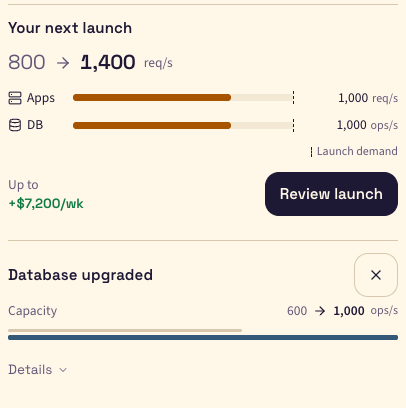
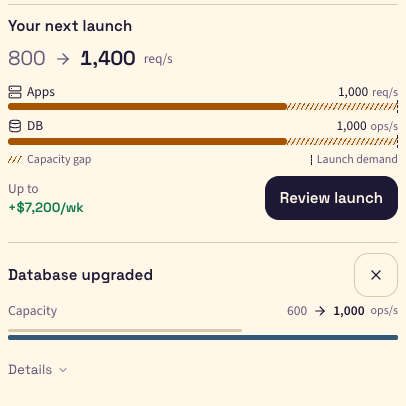
feat(ui): clarify launch capacity and preserve review access

diff --git a/frontend/src/components/LaunchOpportunity.tsx b/frontend/src/components/LaunchOpportunity.tsx
@@ -1,4 +1,5 @@
-import { useState } from "react";
+import { useEffect, useRef, useState } from "react";
+import { createPortal } from "react-dom";
 import { scalingLaunchBlocker } from "@/sim/scalingLaunch";
 import { APPLICATION_SCALING as P } from "@/sim/scenarios/applicationScaling";
 import { OPENING_DB as Q } from "@/sim/scenarios/openingDatabaseIncident";
@@ -9,8 +10,16 @@ import { Icon } from "./icons";
 import "./LaunchOpportunity.css";
 
 export function LaunchOpportunity() {
-  const { game, act, setRunning } = useGame();
+  const game = useGame(s => s.game);
+  const act = useGame(s => s.act);
+  const setRunning = useGame(s => s.setRunning);
+  const running = useGame(s => s.running);
   const [review, setReview] = useState(false);
+  const [focusCountdown, setFocusCountdown] = useState(false);
+  const countdown = useRef<HTMLDivElement>(null);
+  useEffect(() => {
+    if (focusCountdown) countdown.current?.focus();
+  }, [focusCountdown]);
   const c = game.campaign!, stage = c.scaling;
   if (stage?.version !== 2 || stage.consumed) return null;
   const blocker = scalingLaunchBlocker(game);
@@ -19,31 +28,46 @@ export function LaunchOpportunity() {
   const committed = stage.dueStep !== null;
   const remaining = committed ? Math.max(0, stage.dueStep! - c.step) : P.observationSteps;
   const scale = Math.max(P.traffic, routed, c.dbCapacity, 1);
+  const hasGap = routed < P.traffic || c.dbCapacity < P.traffic;
   return <section className="launch-opportunity" aria-label="Growth launch opportunity">
     <h3>{committed ? "Campaign launched" : "Your next launch"}</h3>
     <div className="launch-traffic" role="img" aria-label={`Incoming traffic: ${num(c.incomingRate)} to ${num(P.traffic)} requests per second`}>
       <span>{num(c.incomingRate)}</span><Icon name="next" size={18}/><strong>{num(P.traffic)}</strong><small>req/s</small>
     </div>
-    {committed ? <div className="launch-countdown" role="progressbar" aria-label="Launch countdown" aria-valuemin={0} aria-valuemax={P.observationSteps} aria-valuenow={P.observationSteps - remaining} aria-valuetext={`Launch in ${remaining} game seconds. Run to advance.`}>
-      <span className="launch-countdown-steps" aria-hidden="true">{Array.from({ length: P.observationSteps }, (_, i) => <i key={i} data-elapsed={i < P.observationSteps - remaining}/>)}</span><span>{remaining}s · Run to advance</span>
+    {committed ? <div ref={countdown} tabIndex={-1} className="launch-countdown" role="progressbar" aria-label="Launch countdown" aria-valuemin={0} aria-valuemax={P.observationSteps} aria-valuenow={P.observationSteps - remaining} aria-valuetext={`Launch in ${remaining} game seconds. ${running ? "Running." : "Paused. Run to advance."}`}>
+      <span className="launch-countdown-steps" aria-hidden="true">{Array.from({ length: P.observationSteps }, (_, i) => <i key={i} data-elapsed={i < P.observationSteps - remaining}/>)}</span><span><Icon name={running ? "play" : "pause"} size={14}/>{running ? `${remaining}s to launch` : `Paused · ${remaining}s left`}</span>
     </div> : <>
-      <div className="launch-capacities" role="img" aria-label={`Launch demand ${num(P.traffic)} per second. Routed apps ${num(routed)} requests per second. Database ${num(c.dbCapacity)} operations per second.`}>
+      <div className="launch-capacities" role="img" aria-label={`Launch demand ${num(P.traffic)} per second. Routed apps ${num(routed)} requests per second${routed < P.traffic ? `, capacity gap ${num(P.traffic - routed)}` : ""}. Database ${num(c.dbCapacity)} operations per second${c.dbCapacity < P.traffic ? `, capacity gap ${num(P.traffic - c.dbCapacity)}` : ""}.`}>
         {[{ label: "Apps", icon: "server", value: routed, unit: "req/s" }, { label: "DB", icon: "database", value: c.dbCapacity, unit: "ops/s" }].map(row => <div className="launch-capacity" key={row.label}>
-          <span><Icon name={row.icon === "server" ? "server" : "database"} size={14}/>{row.label}</span><span className="launch-capacity-track" data-short={row.value < P.traffic}><span style={{ width: `${row.value / scale * 100}%` }}/><i style={{ left: `${P.traffic / scale * 100}%` }}/></span><span>{num(row.value)}<small>{row.unit}</small></span>
+          <span><Icon name={row.icon === "server" ? "server" : "database"} size={14}/>{row.label}</span><span className="launch-capacity-value">{num(row.value)}<small>{row.unit}</small></span>
+          <span className="launch-capacity-track" data-short={row.value < P.traffic}>
+            <span style={{ width: `${row.value / scale * 100}%` }}/>
+            {row.value < P.traffic && <span className="launch-capacity-gap" style={{ left: `${row.value / scale * 100}%`, width: `${(P.traffic - row.value) / scale * 100}%` }}/>}
+            <i style={{ left: `${P.traffic / scale * 100}%` }}/>
+          </span>
         </div>)}
-        <span className="launch-capacity-key"><i/>Launch demand</span>
+        <div className="launch-capacity-key" aria-hidden="true">{hasGap && <span><i className="launch-gap-key"/>Capacity gap</span>}<span><i className="launch-target-key"/>Launch demand</span></div>
       </div>
       <div className="launch-offer"><span>Up to <strong>+{money(extraRevenue)}/wk</strong></span><button type="button" className="btn btn-primary" data-guidance="review-launch" disabled={!!blocker} onClick={() => { setRunning(false); setReview(true); }}>Review launch</button></div>
       {blocker && <p>{blocker}</p>}
     </>}
-    {review && !committed && <Modal title="Launch growth campaign?" onClose={() => setReview(false)}>
-      <p>Traffic will rise to <strong>{num(P.traffic)} req/s</strong> after {P.observationSteps} game seconds. The launch cannot be cancelled after confirmation.</p>
-      <p>Up to {money(extraRevenue)} more revenue/week if every additional request succeeds, paid at settlement. Waiting keeps current traffic, revenue and running costs going.</p>
-      <dl className="launch-readings"><div><dt>Routed app capacity</dt><dd>{num(routed)} req/s</dd></div><div><dt>Database capacity</dt><dd>{num(c.dbCapacity)} ops/s</dd></div><div><dt>Deployments unfinished</dt><dd>{c.pending.length}</dd></div></dl>
-      <p>Installed servers only help when routed. Balanced routing splits traffic equally; total capacity alone does not guarantee every server can cope.</p>
-      {(routed < P.traffic || c.dbCapacity < P.traffic || c.limit !== null || c.pending.length > 0) && <p className="text-warn">Current capacity, traffic limits or unfinished deployments may leave demand unserved. Launching still uses the normal incident and bankruptcy rules.</p>}
-      {blocker && <p role="status">{blocker}</p>}
-      <div className="modal-actions"><button type="button" className="btn" onClick={() => setReview(false)}>Keep preparing</button><button type="button" className="btn btn-primary" disabled={!!blocker} onClick={() => { if (act({ type: "launch_scaling" })) setReview(false); }}>Launch campaign</button></div>
-    </Modal>}
+    {review && !committed && createPortal(<Modal title="Launch growth?" className="launch-review" onClose={() => setReview(false)}>
+      <div className="launch-review-content" role="region" aria-label="Launch details" tabIndex={0} onKeyDown={e => {
+        if (e.target !== e.currentTarget || e.altKey || e.ctrlKey || e.metaKey || e.shiftKey) return;
+        if (e.key === "Home" || e.key === "End") {
+          // Match purchase details: keep endpoint navigation inside the focused reading region.
+          e.preventDefault();
+          e.currentTarget.scrollTop = e.key === "End" ? e.currentTarget.scrollHeight : 0;
+        }
+      }}>
+        <p>Traffic will rise to <strong>{num(P.traffic)} req/s</strong> after {P.observationSteps} game seconds. The launch cannot be cancelled after confirmation.</p>
+        <p>Up to {money(extraRevenue)} more revenue/week if every additional request succeeds, paid at settlement. Waiting keeps current traffic, revenue and running costs going.</p>
+        <dl className="launch-readings"><div><dt>Routed app capacity</dt><dd>{num(routed)} req/s</dd></div><div><dt>Database capacity</dt><dd>{num(c.dbCapacity)} ops/s</dd></div><div><dt>Deployments unfinished</dt><dd>{c.pending.length}</dd></div></dl>
+        <p>Installed servers only help when routed. Balanced routing splits traffic equally; total capacity alone does not guarantee every server can cope.</p>
+        {(routed < P.traffic || c.dbCapacity < P.traffic || c.limit !== null || c.pending.length > 0) && <p className="text-warn">Current capacity, traffic limits or unfinished deployments may leave demand unserved. Launching still uses the normal incident and bankruptcy rules.</p>}
+        {blocker && <p role="status">{blocker}</p>}
+      </div>
+      <div className="modal-actions"><button type="button" className="btn" data-autofocus onClick={() => setReview(false)}>Keep preparing</button><button type="button" className="btn btn-primary" disabled={!!blocker} onClick={() => { if (act({ type: "launch_scaling" })) { setReview(false); setFocusCountdown(true); } }}>Launch campaign</button></div>
+    </Modal>, document.body)}
   </section>;
 }

diff --git a/frontend/e2e/playerLaunch.spec.ts b/frontend/e2e/playerLaunch.spec.ts
@@ -26,16 +26,43 @@ for (const phone of [false, true]) {
         await page.screenshot({ path: "test-results/graphical-panel.png", clip: { x: top.x - 8, y: top.y - 4, width: top.width + 16, height: bottom.y + bottom.height - top.y + 8 } });
       }
       await opportunity.getByRole("button", { name: "Review launch" }).click();
-      const review = page.getByRole("dialog", { name: "Launch growth campaign?", exact: true });
+      const review = page.getByRole("dialog", { name: "Launch growth?", exact: true });
       await expect(review).toContainText("1,000 req/s");
       await expect(review).toContainText("cannot be cancelled");
+      const keepPreparing = review.getByRole("button", { name: "Keep preparing" });
+      await expect(keepPreparing).toBeFocused();
+      if (!phone) {
+        // Keyboard can inspect, leave and return without recording a launch.
+        await keepPreparing.press("Shift+Tab");
+        await expect(review.getByRole("region", { name: "Launch details" })).toBeFocused();
+        await page.keyboard.press("Shift+Tab");
+        await expect(review.getByRole("button", { name: "Close", exact: true })).toBeFocused();
+        await page.keyboard.press("Shift+Tab");
+        await expect(review.getByRole("button", { name: "Launch campaign", exact: true })).toBeFocused();
+        await page.keyboard.press("Tab");
+        await expect(review.getByRole("button", { name: "Close", exact: true })).toBeFocused();
+        await page.keyboard.press("Escape");
+        await expect(opportunity.getByRole("button", { name: "Review launch" })).toBeFocused();
+        expect((await savedGame(page)).campaign!.scaling!.dueStep).toBeNull();
+        await page.keyboard.press("Enter");
+        await expect(keepPreparing).toBeFocused();
+      }
       await page.screenshot({ path: `test-results/player-launch-${phone ? "phone" : "desktop"}.png` });
-      await review.getByRole("button", { name: "Keep preparing" }).click();
+      if (phone) await keepPreparing.click();
+      else await keepPreparing.press("Enter");
+      await expect(opportunity.getByRole("button", { name: "Review launch" })).toBeFocused();
       expect((await savedGame(page)).campaign!.scaling!.dueStep).toBeNull();
       await advanceCampaignStep(page, { seconds: 5, resumeClock: false });
       expect((await savedGame(page)).campaign!.incomingRate).toBe(800);
       await opportunity.getByRole("button", { name: "Review launch" }).click();
-      await review.getByRole("button", { name: "Launch campaign", exact: true }).click();
+      if (phone) await review.getByRole("button", { name: "Launch campaign", exact: true }).click();
+      else {
+        await keepPreparing.press("Tab");
+        await page.keyboard.press("Enter");
+      }
+      await expect(opportunity.getByRole("progressbar", { name: "Launch countdown" })).toBeFocused();
+      await expect(opportunity).toContainText("Paused · 3s left");
+      if (!phone) await opportunity.screenshot({ path: "test-results/graphical-countdown.png" });
       const deadline = (await savedGame(page)).campaign!.scaling!.dueStep;
       await advanceCampaignStep(page, { seconds: 2, resumeClock: false });
       // The simulation is paused; let the phone shell finish its lazy loading on reload.
@@ -70,4 +97,42 @@ test("explains an unrouted purchase as soon as the server activates", async ({ p
   await expect(feedback.locator("details")).toHaveJSProperty("open", true);
   await expect(feedback.getByText("800 → 800 /s", { exact: true })).toBeVisible();
   await page.screenshot({ path: "test-results/player-change-feedback.png" });
+});
+
+test.describe("large text phone", () => {
+  test.use({ edition: "phone", viewport: { width: 320, height: 568 }, isMobile: true, hasTouch: true });
+  test("keeps the launch decision reachable with enlarged text on a short phone", async ({ page, withoutRoom }) => {
+    await withoutRoom();
+    await seedSave(page, launchCompany());
+    await page.goto("/");
+    await page.getByRole("button", { name: "Continue company", exact: true }).click();
+    const handle = page.locator('.phone-sheet-handle[aria-expanded="false"]');
+    if (await handle.isVisible()) await handle.click();
+    await page.addStyleTag({ content: "html { font-size: 200%; }" });
+    const opportunity = page.getByRole("region", { name: "Growth launch opportunity" });
+    await opportunity.getByRole("button", { name: "Review launch" }).click();
+    const review = page.getByRole("dialog", { name: "Launch growth?", exact: true });
+    const keepPreparing = review.getByRole("button", { name: "Keep preparing" });
+    const launch = review.getByRole("button", { name: "Launch campaign", exact: true });
+    await expect(keepPreparing).toBeFocused();
+    await expectUncovered(page, keepPreparing);
+    await expectUncovered(page, launch);
+    expect(await review.evaluate(node => node.scrollWidth <= node.clientWidth)).toBe(true);
+    expect(await opportunity.evaluate(node => node.scrollWidth <= node.clientWidth)).toBe(true);
+    const explanation = review.getByRole("region", { name: "Launch details" });
+    expect(await explanation.evaluate(node => node.scrollHeight > node.clientHeight)).toBe(true);
+    await keepPreparing.press("Shift+Tab");
+    await expect(explanation).toBeFocused();
+    await explanation.press("End");
+    await expect.poll(() => explanation.evaluate(node => node.scrollTop)).toBeGreaterThan(0);
+    await explanation.press("Home");
+    await expect.poll(() => explanation.evaluate(node => node.scrollTop)).toBe(0);
+    await explanation.press("Tab");
+    await expect(keepPreparing).toBeFocused();
+    await expectUncovered(page, keepPreparing);
+    await expectUncovered(page, launch);
+    await page.screenshot({ path: "test-results/graphical-large-text-review.png" });
+    await keepPreparing.press("Enter");
+    expect((await savedGame(page)).campaign!.scaling!.dueStep).toBeNull();
+  });
 });

diff --git a/frontend/src/components/LaunchOpportunity.css b/frontend/src/components/LaunchOpportunity.css
@@ -1,5 +1,5 @@
 .launch-opportunity, .change-feedback {
-  padding-block: 12px;
+  padding-block: 10px;
   border-top: 1px solid var(--control-edge);
 }
 .launch-opportunity h3, .change-feedback h3 { margin: 0; font-size: var(--text-md); }
@@ -10,25 +10,32 @@
 .change-feedback-heading { display: flex; align-items: center; justify-content: space-between; gap: 8px; }
 .change-feedback-heading .icon-btn { flex: none; }
 
-.launch-traffic { display: flex; align-items: center; gap: 8px; margin: 10px 0; font-family: var(--font-num); font-size: var(--text-xl); font-variant-numeric: tabular-nums; }
+.launch-traffic { display: flex; align-items: center; gap: 8px; margin: 8px 0; font-family: var(--font-num); font-size: var(--text-xl); font-variant-numeric: tabular-nums; }
 .launch-traffic > span, .launch-traffic > .icon { color: var(--text-soft); }
 .launch-traffic small { font-family: var(--font-body); font-size: var(--text-sm); color: var(--text-soft); }
-.launch-capacities { display: grid; gap: 8px; margin-bottom: 12px; }
-.launch-capacity { display: grid; grid-template-columns: 55px minmax(40px, 1fr) auto; gap: 10px; align-items: center; font-size: var(--text-sm); }
+.launch-capacities { display: grid; gap: 6px; margin-bottom: 8px; }
+.launch-capacity { display: grid; grid-template-columns: minmax(0, 1fr) auto; gap: 2px 10px; align-items: center; font-size: var(--text-sm); }
 .launch-capacity > span:first-child { display: flex; align-items: center; gap: 5px; }
-.launch-capacity > span:last-child { display: flex; align-items: baseline; gap: 4px; font-variant-numeric: tabular-nums; min-width: 94px; justify-content: end; }
+.launch-capacity-value { display: flex; flex-wrap: wrap; align-items: baseline; gap: 4px; font-variant-numeric: tabular-nums; justify-content: end; }
 .launch-capacity small { color: var(--text-soft); font-size: var(--text-xs); }
 .launch-capacity-track, .change-cache-track { display: block; position: relative; height: 7px; border-radius: 3px; background: var(--control-inset); }
 .launch-capacity-track > span, .change-cache-track > span { display: block; height: 100%; border-radius: inherit; background: var(--tile-blue-ink); }
-.launch-capacity-track[data-short="true"] > span { background: var(--warn-ink); }
+.launch-capacity-track[data-short="true"] > span:first-child { background: var(--warn-ink); }
 .launch-capacity-track > i { position: absolute; top: -3px; bottom: -3px; border-left: 1px dashed var(--ink); transform: translateX(-1px); }
-.launch-capacity-key { display: flex; justify-content: end; align-items: center; gap: 5px; font-size: var(--text-xs); color: var(--text-soft); }
-.launch-capacity-key > i { height: 10px; border-left: 1px dashed var(--ink); }
+.launch-capacity-track { grid-column: 1 / -1; }
+.launch-capacity-track > .launch-capacity-gap, .launch-gap-key { background: repeating-linear-gradient(120deg, transparent 0 3px, var(--warn-ink) 3px 4px); }
+.launch-capacity-track > .launch-capacity-gap { position: absolute; top: 0; border-radius: 0; }
+.launch-capacity-key { display: flex; justify-content: space-between; flex-wrap: wrap; gap: 4px 12px; font-size: var(--text-xs); color: var(--text-soft); }
+.launch-capacity-key > span { display: flex; align-items: center; gap: 5px; }
+.launch-gap-key { width: 14px; height: 7px; }
+.launch-target-key { height: 10px; border-left: 1px dashed var(--ink); }
+.launch-capacity-key > span:last-child { margin-left: auto; }
 .launch-offer { display: flex; align-items: center; justify-content: space-between; flex-wrap: wrap; gap: 8px; }
 .launch-offer > span { font-size: var(--text-sm); color: var(--text-soft); }
 .launch-offer strong { display: block; color: var(--ok-ink); font-family: var(--font-num); }
 .launch-countdown { display: flex; align-items: center; gap: 10px; font-size: var(--text-sm); color: var(--text-soft); }
-.launch-countdown-steps { display: flex; gap: 4px; }
+.launch-countdown > span:last-child { display: flex; align-items: center; gap: 5px; }
+.launch-countdown-steps { display: flex; flex: none; gap: 4px; }
 .launch-countdown-steps > i { width: 14px; height: 5px; border-radius: 2px; background: var(--control-edge); }
 .launch-countdown-steps > i[data-elapsed="true"] { background: var(--tile-blue-ink); }
 .change-feedback-heading .icon-btn { width: 44px; height: 44px; }
@@ -60,3 +67,16 @@
 .change-admission-track > span:last-child { background: var(--warn-ink); }
 
 .launch-opportunity { width: 100%; }
+
+/* Keep the decision visible while the explanation scrolls on short or enlarged-text screens. */
+.modal-backdrop:has(> .launch-review) { padding: max(18px, env(safe-area-inset-top)) max(18px, env(safe-area-inset-right)) max(18px, env(safe-area-inset-bottom)) max(18px, env(safe-area-inset-left)); }
+.launch-review { max-height: calc(100dvh - max(18px, env(safe-area-inset-top)) - max(18px, env(safe-area-inset-bottom))); }
+.launch-review > .modal-head { flex: none; }
+.launch-review > .modal-body { display: flex; flex-direction: column; min-height: 0; padding: 0; overflow: hidden; }
+.launch-review p { margin-block: 8px; }
+.launch-review-content { min-height: 0; overflow-y: auto; padding: 14px 18px; }
+.launch-review .modal-actions { display: flex; flex-wrap: wrap; flex: none; gap: 8px; padding: 12px 18px; border-top: 1px solid var(--control-edge); }
+.launch-review .modal-actions > .btn { flex: 1 1 10rem; min-height: 44px; }
+.launch-review .modal-head h2 { overflow-wrap: anywhere; }
+.launch-opportunity, .change-feedback { min-width: 0; }
+.launch-opportunity .launch-traffic { flex-wrap: wrap; }

diff --git a/frontend/e2e/campaignCompletion.spec.ts b/frontend/e2e/campaignCompletion.spec.ts
@@ -65,7 +65,7 @@ test("campaign: a fresh guest completes every chapter and the campaign through p
  // Growth is now a player decision. Launch after the two routed servers are ready,
  // then keep improving the same company through the remaining chapters.
  await page.getByRole("region",{name:"Growth launch opportunity"}).getByRole("button",{name:"Review launch",exact:true}).click();
- await page.getByRole("dialog",{name:"Launch growth campaign?",exact:true}).getByRole("button",{name:"Launch campaign",exact:true}).click();
+ await page.getByRole("dialog",{name:"Launch growth?",exact:true}).getByRole("button",{name:"Launch campaign",exact:true}).click();
  await advance(3);
  expect((await savedGame(page)).campaign!.snapshot.successful).toBe(1400);
  const afford=(cents:number)=>operateUntil(page,s=>s.campaign!.cashCents>cents&&s.phase==="management",400);await afford(250000);await install(/^Scale up Server 1/,3);await operateUntil(page,s=>s.campaign!.cashCents>250000,400);await install(/^Scale up Server 2/,3);await operateUntil(page,s=>{const c=s.campaign!;return !!c.scaling?.consumed&&s.phase==="management"&&!c.incident&&c.dbBacklog===0&&c.apps.every(a=>a.backlog===0)&&c.reports.every(r=>c.trace.some(t=>t.type==="review-acknowledged"&&t.data.incidentId===r.id));},400);await pause(page);await page.getByRole("button",{name:"Next: Continue to Data Strategy",exact:true}).click();await chapterGuide(page,"Data strategy");await install(/^Deploy Read Cache/,2);await advance(6);await removeLimit(1);await page.getByRole("button",{name:"Next: Continue to Traffic Spikes",exact:true}).click();await chapterGuide(page,"Traffic spikes");await install(/^Add server/,2);await operateUntil(page,s=>s.campaign!.cashCents>250000,400);await install(/^Scale up Server 3/,3);await await routeAllApps(page,undefined,()=>advance(1));await operateUntil(page,s=>s.campaign!.spikeStage!.completedStep!==null);await page.getByRole("button",{name:"Stay in this chapter",exact:true}).click();await page.getByRole("button",{name:"Next: Continue to Stay Online",exact:true}).click();await chapterGuide(page,"Stay online",7);await page.getByRole("button",{name:"Start reliability test",exact:true}).click();await operateUntil(page,s=>s.campaign!.reliabilityStage!.completedStep!==null);await page.getByRole("button",{name:"Stay in this chapter",exact:true}).click();

diff --git a/frontend/src/components/LaunchOpportunity.test.tsx b/frontend/src/components/LaunchOpportunity.test.tsx
@@ -26,7 +26,14 @@ it("keeps reviewing and declining read-only, then commits one explicit launch", 
   fireEvent.click(screen.getByRole("button", { name: "Review launch" }));
   fireEvent.click(screen.getByRole("button", { name: "Launch campaign" }));
   expect(screen.queryByRole("dialog")).toBeNull();
-  expect(screen.getByRole("progressbar", { name: "Launch countdown" }).getAttribute("aria-valuetext")).toContain("3 game seconds");
+  const countdown = screen.getByRole("progressbar", { name: "Launch countdown" });
+  expect(countdown.getAttribute("aria-valuetext")).toContain("3 game seconds. Paused.");
+  expect(document.activeElement).toBe(countdown);
+  act(() => useGame.getState().setRunning(true));
+  expect(countdown.getAttribute("aria-valuetext")).toContain("Running.");
+  expect(countdown.textContent).toContain("3s to launch");
+  act(() => useGame.getState().setRunning(false));
+  expect(countdown.textContent).toContain("Paused · 3s left");
   expect(useGame.getState().game.campaign!.inputs.filter(i => i.action.type === "launch_scaling")).toHaveLength(1);
   act(() => useGame.getState().stepSeconds(2));
   expect(useGame.getState().game.campaign!.incomingRate).toBe(800);

diff --git a/docs/UI_DESIGN.md b/docs/UI_DESIGN.md
@@ -376,6 +376,6 @@ On screens no taller than 600 px, an active coach uses a 48 px collapsed System 
 
 ### Launch decisions and activation feedback
 
-New Scaling & Routing entries put Your next launch in System metrics, above the service readings. The compact offer shows a traffic arrow, two capacity bars for routed apps and the database, a shared launch-demand marker, an up-to revenue figure and Review launch. Values and bar lengths carry the comparison; a shortfall also changes the bar’s colour. After confirmation, three segments track the actual game-second countdown. Longer preparation and revenue explanations stay in the review dialog. Review launch pauses the company and opens a focused confirmation with actual routed capacity, database capacity, unfinished deployments and capacity/routing warnings. Keep preparing and Close record no decision. Launch campaign commits the engine’s saved countdown; Campaign launched then shows its remaining game seconds. The interface uses the engine’s launch blocker; incident recovery and report controls keep priority. Retained automatic-growth entries keep their existing risk-consent presentation. Gameplay rules live in GAMEPLAY.md.
+New Scaling & Routing entries put Your next launch in System metrics, above the service readings. The compact offer shows a traffic arrow, two capacity bars for routed apps and the database, a shared launch-demand marker, an up-to revenue figure and Review launch. Each capacity label/value sits above a full-width track so small screens and enlarged text retain a readable comparison. Capacity shortfalls are hatched and keyed as Capacity gap as well as coloured; this is a capacity comparison, not an overall readiness score. After confirmation, three segments track the actual game-second countdown with distinct paused/running text and icons. Longer preparation and revenue explanations stay in the review dialog. Review launch pauses the company and opens a focused confirmation with actual routed capacity, database capacity, unfinished deployments and capacity/routing warnings. Keep preparing receives initial keyboard focus; the shared modal traps Tab, Escape/decline restores Review launch, and confirmation moves focus to the countdown without stealing it on a resumed save. The review uses the top-level modal layer so the phone dock and header cannot cover it. Its keyboard-focusable explanation scrolls independently of its always-visible decision buttons, within safe-area insets. Keep preparing and Close record no decision. Launch campaign commits the engine’s saved countdown; Campaign launched then shows its remaining game seconds. The interface uses the engine’s launch blocker; incident recovery and report controls keep priority. Retained automatic-growth entries keep their existing risk-consent presentation. Gameplay rules live in GAMEPLAY.md.
 
 A player-requested infrastructure activation immediately updates a dismissible Latest infrastructure change section in System metrics. Its default view is graphical: two lengths and exact before/after values for changed capacity, an installed-to-routed connection indicator, a live measured cache-hit meter, or an admitted/rejected traffic split. Other activations show a compact Active state. A brief overload label names the affected component and the activation second, so historical pressure is not mistaken for current health. Details opens the explanations, exact preceding/activation snapshots, cache readings and the note that traffic and simultaneous changes can also affect those observations. Screen-reader status announcements retain the full explanation; graphics carry equivalent accessible labels. Feedback is reconstructed from existing action history and measurements on reload, adds no timer or floating overlay, never pauses play and never grants recovery credit. Autoscaler notices retain their existing presentation. Both desktop and phone editions use the same controls and readings.
